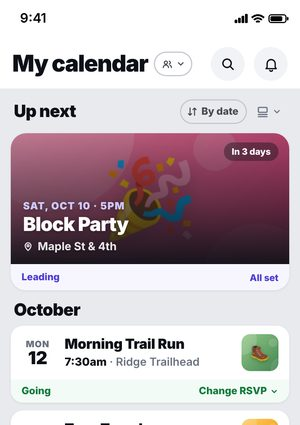
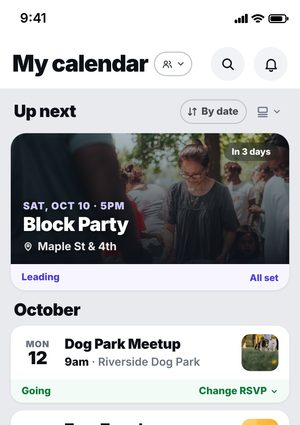
What's Spark Hub?: a 28px title, How it works › on panel 1, the sheet as tall as each panel; the phones show the owner's photos
Claude-Session: https://claude.ai/code/session_01T5A5NYC6FZxa6jNcmnBf9q

Changed region(s): [[0.03, 0.3059, 0.99, 0.6118], [0.21, 0.7953, 0.66, 0.8871], [0.78, 0.7647, 0.93, 0.8871]]

diff --git a/js/sparks.js b/js/sparks.js
@@ -10558,8 +10558,8 @@
       '<span style="display:flex;flex-direction:column;gap:1px"><span style="font-size:15px;font-weight:800;color:#0d1117">' + t + '</span><span style="font-size:13px;font-weight:600;color:#6b7280">' + sub + '</span></span></div>';
     const panels = [
       // No eyebrow: the Spark Hub mark sits in the top row beside the × (owner, 2026-10-07)
-      // Just the title, larger, over the phones (owner, 2026-10-07: no description lines)
-      '<h3 style="margin:0;font-size:32px;line-height:1.06;font-weight:900;letter-spacing:-.8px;color:#0d1117;text-wrap:balance">Where your group’s ideas turn into plans</h3>' + aboutPhones(),
+      // Just the title, larger (28px), over the phones (owner, 2026-10-07: no description lines)
+      '<h3 style="margin:0;font-size:28px;line-height:1.08;font-weight:900;letter-spacing:-.7px;color:#0d1117;text-wrap:balance">Where your group’s ideas turn into plans</h3>' + aboutPhones(),
       kick('HOW IT WORKS') + h('Anyone can start something') +
         '<div style="display:flex;flex-direction:column;gap:8px">' +
           step('#fdf1d6', '#f5b428', '#2a1d00', 1, 'Float an Idea', '“Pickleball on Sunday mornings?”') +
@@ -10571,7 +10571,7 @@
         p('I’m building Spark Hub with my neighbors &amp; friends, for communities like yours.') + p('It’s still new. I want to hear your thoughts! What’s working and what needs to be changed.')
     ];
     const dots = '<div style="display:flex;gap:6px;justify-content:center" aria-hidden="true">' + [0, 1, 2].map(n => '<span style="height:7px;border-radius:999px;background:' + (n === i ? '#0d1117;width:20px' : '#dcdfe6;width:7px') + '"></span>').join('') + '</div>';
-    const btn = (label, fn, bg, ink, data) => '<button type="button" ' + data + ' ' + on(fn) + ' style="min-height:52px;border:0;border-radius:999px;background:' + bg + ';color:' + ink + ';font-family:inherit;font-size:16px;font-weight:900;cursor:pointer">' + label + '</button>';
+    const btn = (label, fn, bg, ink, data) => '<button type="button" ' + data + ' ' + on(fn) + ' style="min-height:52px;border:0;border-radius:999px;background:' + bg + ';color:' + ink + ';font-family:inherit;font-size:16px;font-weight:900;cursor:pointer;display:flex;align-items:center;justify-content:center;gap:4px">' + label + '</button>';
     // Back and close live at the top (owner, 2026-10-07, layout A): a round ‹ on panels 2-3 (the Spark Hub mark and a BETA chip on panel 1) and a round ×; the dots sit above
     // the main button, which is Next, then Give feedback on the last panel (no Got it or Back under it)
     const round = (label, fn, icon, data) => '<span ' + on(fn) + ' role="button" aria-label="' + label + '" ' + data + ' style="flex:0 0 36px;width:36px;height:36px;border-radius:999px;background:#f2f3f6;display:flex;align-items:center;justify-content:center;cursor:pointer">' + icon + '</span>';
@@ -10579,10 +10579,10 @@
       (i > 0 ? round('Back', () => go(i - 1), I.chevL(15, '#0d1117', 2.8), 'data-about-back')
         : '<span data-about-logo aria-label="Spark Hub" style="display:flex;align-items:center;gap:6px">' + I.bolt(22, '#e8a71c') + '<span style="font-size:17px;line-height:1;font-weight:900;letter-spacing:-.5px;color:#0d1117">Spark Hub</span>' +
           betaChip(false, 'data-about-beta') + '</span>') + round('Close', close, I.x(13, '#0d1117', 2.8), 'data-about-close') + '</div>';
-    const main = i < 2 ? btn('Next', () => go(i + 1), '#f5b428', '#2a1d00', 'data-about-next')
+    const main = i < 2 ? btn(i ? 'Next' : 'How it works' + I.chevR(16, '#2a1d00', 2.8), () => go(i + 1), '#f5b428', '#2a1d00', 'data-about-next')
       : btn('Give feedback', () => { setState({ about: null }); openFeedback(); }, '#5b4ae8', '#fff', 'data-about-feedback');
     return sheet('What’s Spark Hub?', close, SHEET_PAD,
-      top + '<div data-about-panel="' + (i + 1) + '" style="display:flex;flex-direction:column;gap:12px;min-height:390px">' + panels[i] + '</div>' + dots + main, 44);
+      top + '<div data-about-panel="' + (i + 1) + '" style="display:flex;flex-direction:column;gap:12px">' + panels[i] + '</div>' + dots + main, 44);
   }
 
   // Members of a group you run. Owners (up to two) set roles; admins see them

diff --git a/index.html b/index.html
@@ -41,6 +41,6 @@
 </div>
 <script src="https://cdn.jsdelivr.net/npm/@supabase/supabase-js@2.117.1/dist/umd/supabase.js" integrity="sha384-K1nraABOP/zFehpLIUksXebbs7jMpB8gYMlb+uhVKZcWT/9Vkq1+qhv6ndC+1Yuz" crossorigin="anonymous"></script>
 <script src="/js/config.js?v=11"></script>
-<script src="/js/sparks.js?v=315"></script>
+<script src="/js/sparks.js?v=316"></script>
 </body>
 </html>

diff --git a/HANDOFF-to-DESIGN.md b/HANDOFF-to-DESIGN.md
@@ -237,7 +237,7 @@ Never cleared on a reset. These are places where the owner chose differently fro
 | 162 | **Past days and today on a multi-day event** (same): the day timeline dims past days (dot #c9ccd3, text #9aa0ac / #b9bcc4) and marks today with a green dot and a *Today* tag (#149a4b, white, 11.5px/900, 20px tall, round); When will you attend? shows a past day as a gray card (#f4f5f7, ring #e6e7eb) reading *Past*, not pickable; Add to calendar leaves past days out; the back date page shows the next (or, on the last day, the previous) day, never the same date twice | Every day looked the same | |
 | 163 | **An unfinished span or day list can't be saved** (same): the hint turns red (#9b1c31, 14px/700): *Pick a later end date* · *Pick an end date within 31 days* · *Add another day* · *Pick a date for every day* · *Two days have the same date*; Post it goes gray (a tap opens Date & time with a toast), Edit's Save is disabled; the end-date picker stops at start + 31 days | It saved quietly as a one-day event | |
 | 164 | **Shared event links preview as photo · title with date · time and place** (owner, 2026-10-07): the link's title is *Jeni Reads Her Resume – Thu, Oct 22* (multi-day: *Camping – Oct 16–18*), the line under it *7:30pm · Hub on Hunters* (or *On Spark Hub*); an event with no cover uses its first mood photo, then its home group's photo. The Share link card shows the same two lines | Date and time both in the line | iMessage shows only the title, so the date rides there |
-| 165 | **What's Spark Hub? panel 1 shows three fanned phones** (owner, 2026-10-07): My groups in front (150px wide), Ideas and My calendar behind it (123px, tilted ∓11°), fading out above the dots; the screens are made-up (Oak Creek Neighborhood, Hub on Hunters with its real photo, Stonehill Neighbors, Torrez Fitness; illustrated covers, no faces). All three panels are 390px tall now so the sheet doesn't jump | No picture | Shows the app at a glance |
+| 165 | **What's Spark Hub? panel 1 shows three fanned phones** (owner, 2026-10-07): My groups in front (150px wide), Ideas and My calendar behind it (123px, tilted ∓11°), fading out above the dots; the screens are made-up (Oak Creek Neighborhood, Hub on Hunters with its real photo, Stonehill Neighbors, Torrez Fitness; illustrated covers, no faces). The sheet is as tall as each panel (owner: no empty space) | No picture | Shows the app at a glance |
 | 166 | **A BETA chip beside every Spark Hub wordmark** (owner, 2026-10-07): 10.5px/900, 1px tracking, 4×8 padding, round; light #f3f1fe with #5b4ae8 (What's Spark Hub?, the start-up splash), dark rgba(255,255,255,.18) with white (Welcome, the brand pill, the sign-in wordmark) | | Spark Hub is in beta |
 | 167 | **Event titles and overviews balance their lines** (owner, 2026-10-07): the big title and the overview on a plan's, an idea's and an It happened page break into even lines | Ragged | |
 | 168 | **Welcome's photo is a park picnic** (owner, 2026-10-07): `photos/welcome-park-2.jpg` (people at red-checked tables under a tree, the owner's edited version), framed exactly as before (40% 50%, the same 1200×839 shape) | The earlier picnic photo | |
@@ -245,7 +245,7 @@ Never cleared on a reset. These are places where the owner chose differently fro
 ## 2. Things the build had to invent (please design these properly)
 
 - **Visitor line** (owner, 2026-10-07, first-encounter item 9, from the explainers mockup): on a plan's page, a visitor who hasn't replied (signed out, or in none of its groups) sees a white card above the RSVP: a 34px pale-gold disc (#fdf1d6) with the gold bolt, *Shared with you on **Spark Hub**, where people turn ideas into plans. No account needed to RSVP.* (14px/600 #454b55) and *What's Spark Hub? ›* (14px/800 #5b4ae8). No group name (visitors don't see it). Gone once they reply.
-- **What's Spark Hub? sheet** (same): a slide-up with three panels. At the top a round ‹ (panels 2–3; on panel 1 the Spark Hub mark, gold bolt + *Spark Hub*, 17px/900, sits there instead, followed by a *BETA* chip: #f3f1fe, #5b4ae8 text, 10.5px/900, 1px letter-spacing, 4×8 padding, full round) and a round × (36px, #f2f3f6); the dots sit above the main button, **Next** (gold) on panels 1–2 and **Give feedback** (purple) on the last (owner, 2026-10-07: no *Got it* or *Back* under it). 1 no eyebrow · *Where your group's ideas turn into plans* (lowercase here, owner's one exception) · (32px/900, no lines under it since 2026-10-07; the phones follow) 2 *HOW IT WORKS* · *Anyone can start something*: three rows, *1 Float an idea* · *“Pickleball on Sunday mornings?”* (gold), *2 Everybody pitches in* · *Say you're in, help pick a date, lend a hand* (orange), *3 Make it a plan* · *It's on the calendar. See you there!* (purple). 3 *FEEDBACK WANTED* · *Help shape Spark Hub*: Eric's photo, *Eric · Spark Hub lead*, two short paragraphs, *I'm building Spark Hub with my neighbors & friends, for communities like yours.* / *It's still new. I want to hear your thoughts! What's working and what needs to be changed.*, **Give feedback** as the main button (guests too, without signing in: no screenshot box for them) (owner, 2026-10-07). Opens from the visitor line and Me → *How Spark Hub works* (was Coming soon; no subtitle, owner 2026-10-07); never by itself. No account ask in it (guests aren't pushed).
+- **What's Spark Hub? sheet** (same): a slide-up with three panels. At the top a round ‹ (panels 2–3; on panel 1 the Spark Hub mark, gold bolt + *Spark Hub*, 17px/900, sits there instead, followed by a *BETA* chip: #f3f1fe, #5b4ae8 text, 10.5px/900, 1px letter-spacing, 4×8 padding, full round) and a round × (36px, #f2f3f6); the dots sit above the main button, **How it works ›** (a right chevron) on panel 1 and **Next** on panel 2 (gold) and **Give feedback** (purple) on the last (owner, 2026-10-07: no *Got it* or *Back* under it). 1 no eyebrow · *Where your group's ideas turn into plans* (lowercase here, owner's one exception) · (28px/900, no lines under it since 2026-10-07; the phones follow, and the sheet is only as tall as each panel) 2 *HOW IT WORKS* · *Anyone can start something*: three rows, *1 Float an idea* · *“Pickleball on Sunday mornings?”* (gold), *2 Everybody pitches in* · *Say you're in, help pick a date, lend a hand* (orange), *3 Make it a plan* · *It's on the calendar. See you there!* (purple). 3 *FEEDBACK WANTED* · *Help shape Spark Hub*: Eric's photo, *Eric · Spark Hub lead*, two short paragraphs, *I'm building Spark Hub with my neighbors & friends, for communities like yours.* / *It's still new. I want to hear your thoughts! What's working and what needs to be changed.*, **Give feedback** as the main button (guests too, without signing in: no screenshot box for them) (owner, 2026-10-07). Opens from the visitor line and Me → *How Spark Hub works* (was Coming soon; no subtitle, owner 2026-10-07); never by itself. No account ask in it (guests aren't pushed).
 - **Pick pop-up messages:** *That date has passed. Pick another.*
 - **Rounded tops on iPhone (owner, 2026-10-06):** the idea slide-up's top corners came out square on iPhone when the idea had a cover photo (Safari stops clipping to the rounded corners when a child is tilted). Fixed in the build, nothing to redraw.
 - **Drag to close (owner, 2026-10-06):** every slide-up follows the thumb when pulled down (from its top, or anywhere once its content is scrolled to the top) and the dark scrim fades with it. Let go past a third of its height (at most 220px), or flick, and it slides off and closes, the same as a tap outside; otherwise it springs back (140–260ms, `cubic-bezier(.2,.8,.2,1)`). Phones that allow it give a short buzz at the point where letting go will close it. Plan an event only closes this way from its Close step (Review has Back), and still asks *Pick this up later?* when something is typed. Nothing new is drawn: if you want a stronger cue at the threshold, please design one.
